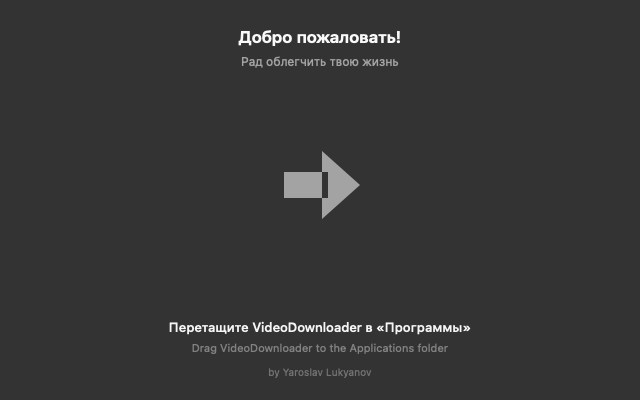
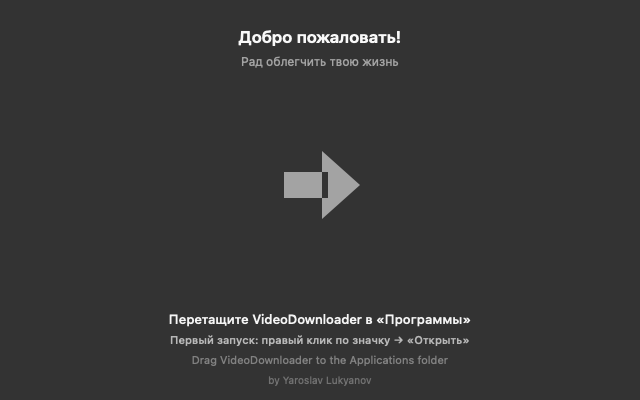
Add unlock-instructions file + hint to DMG (Gatekeeper first-launch help)

Changed region(s): [[0.25, 0.78, 0.75, 0.96]]

diff --git a/Scripts/make-readme-rtf.swift b/Scripts/make-readme-rtf.swift
@@ -1,0 +1,57 @@
+// Generates "Если не открывается.rtf" — instructions with a clickable link
+// that opens System Settings → Privacy & Security directly.
+// Usage: swift Scripts/make-readme-rtf.swift <output.rtf>
+
+import AppKit
+
+let out = CommandLine.arguments.count > 1 ? CommandLine.arguments[1] : "Если не открывается.rtf"
+
+let bodyFont = NSFont.systemFont(ofSize: 14)
+let boldFont = NSFont.boldSystemFont(ofSize: 15)
+let linkFont = NSFont.boldSystemFont(ofSize: 14)
+
+let text = NSMutableAttributedString()
+
+func para(_ s: String, font: NSFont = bodyFont, spacingAfter: CGFloat = 10, color: NSColor = .textColor) {
+    let style = NSMutableParagraphStyle()
+    style.paragraphSpacing = spacingAfter
+    style.lineSpacing = 2
+    text.append(NSAttributedString(string: s + "\n", attributes: [
+        .font: font, .foregroundColor: color, .paragraphStyle: style,
+    ]))
+}
+
+func link(_ label: String, url: String, spacingAfter: CGFloat = 4) {
+    let style = NSMutableParagraphStyle()
+    style.paragraphSpacing = spacingAfter
+    let attrs: [NSAttributedString.Key: Any] = [
+        .font: linkFont,
+        .link: url,
+        .paragraphStyle: style,
+    ]
+    text.append(NSAttributedString(string: label, attributes: attrs))
+    text.append(NSAttributedString(string: "\n"))
+}
+
+para("VideoDownloader — если не открывается", font: boldFont, spacingAfter: 14)
+
+para("macOS иногда блокирует программы без платной подписи Apple (у нас её нет). Обычно хватает одного из шагов:", spacingAfter: 14)
+
+para("1. Правый клик по VideoDownloader.app → «Открыть» → в появившемся окне снова нажать «Открыть».", spacingAfter: 14)
+
+para("2. Если всё ещё не открывается — нажми на кнопку ниже, прокрути вниз в открывшемся окне настроек, найди строку про заблокированный VideoDownloader и нажми «Открыть в любом случае».", spacingAfter: 8)
+
+link("→ Открыть настройки", url: "x-apple.systempreferences:com.apple.preference.security", spacingAfter: 16)
+
+para("После этого программа открывается как обычно. Ставить больше ничего не нужно — всё нужное уже внутри.")
+
+let docAttrs: [NSAttributedString.DocumentAttributeKey: Any] = [
+    .documentType: NSAttributedString.DocumentType.rtf
+]
+guard let data = try? text.data(
+    from: NSRange(location: 0, length: text.length),
+    documentAttributes: docAttrs
+) else { fatalError("rtf encode failed") }
+
+try! data.write(to: URL(fileURLWithPath: out))
+print("wrote \(out)")

diff --git a/Scripts/make-dmg-background.swift b/Scripts/make-dmg-background.swift
@@ -50,10 +50,11 @@ func text(_ s: String, size: CGFloat, weight: NSFont.Weight, alpha: CGFloat, y: 
 text("Добро пожаловать!", size: 17, weight: .semibold, alpha: 0.97, y: CGFloat(H) - 52)
 text("Рад облегчить твою жизнь", size: 12, weight: .regular, alpha: 0.55, y: CGFloat(H) - 74)
 
-// install hint + credit (bottom)
-text("Перетащите VideoDownloader в «Программы»", size: 13, weight: .medium, alpha: 0.95, y: 60)
-text("Drag VideoDownloader to the Applications folder", size: 11, weight: .regular, alpha: 0.38, y: 40)
-text("by Yaroslav Lukyanov", size: 10, weight: .regular, alpha: 0.30, y: 16)
+// install hint + first-launch tip + credit (bottom)
+text("Перетащите VideoDownloader в «Программы»", size: 13, weight: .medium, alpha: 0.95, y: 68)
+text("Первый запуск: правый клик по значку → «Открыть»", size: 11, weight: .medium, alpha: 0.65, y: 48)
+text("Drag VideoDownloader to the Applications folder", size: 11, weight: .regular, alpha: 0.38, y: 28)
+text("by Yaroslav Lukyanov", size: 10, weight: .regular, alpha: 0.30, y: 8)
 
 NSGraphicsContext.restoreGraphicsState()
 
